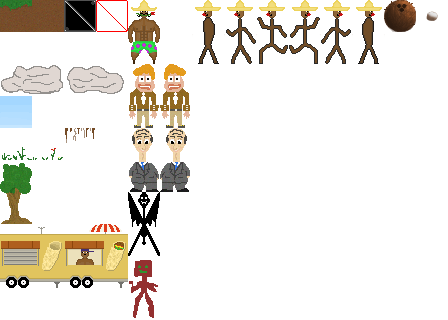
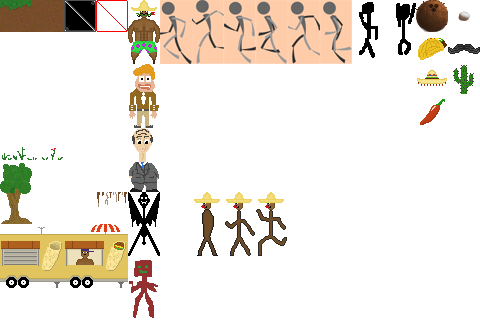
Ny animation-demo

diff --git a/Tempo/src/tempo/GameEngine.java b/Tempo/src/tempo/GameEngine.java
@@ -64,53 +64,54 @@ public class GameEngine implements Runnable {
 */
         public synchronized void tick() {
             ticks++;
-if(!gp.isPaused){         
-            if(ticks % 4 == 2){
-gp.set.get(1).rect.x += 1;            
+            if(!gp.isPaused){         
+                if(ticks % 4 == 2){
+                    gp.set.get(1).rect.x += 1;            
+                }
+                checkMovement();
+                checkCollision();
+               // checkClouds();
+                checkWeapon();
+                checkDialogue();
+                checkPlayer();
+                resetScreen();
+                gp.player.getAnimation().tick();
             }
-            checkMovement();
-            checkCollision();
-           // checkClouds();
-            checkWeapon();
-            checkDialogue();
-            checkPlayer();
-            resetScreen();
-            gp.player.getAnimation().tick();
-
-        }
-        gp.repaint();
-        if(ticks == 60){
-            ticks = 0;
+            gp.repaint();
+            if(ticks == 60){
+                ticks = 0;
             }
         }
 
         public void resetScreen(){
             if(gp.player.resetScreen){
                 gp.player.resetScreen = false;
-                            for(int l = 0;l<gp.particle.size();l++){
-                                gp.particle.get(l).rect.x += gp.player.spawnDiff;
-                            }
-                            for(int i = 0;i<gp.level.blocks.size();i++){
-                                gp.level.blocks.get(i).rect.x += gp.player.spawnDiff;
-                            }
-                            for(int i = 0;i<gp.clouds.size();i++){
-                                gp.clouds.get(i).rect.x += gp.player.spawnDiff;
-                                    gp.clouds.get(i).rect.x += gp.player.spawnDiff;
-                            }
-                            for(int i = 0;i<gp.bullets.size();i++){
-                                gp.bullets.get(i).rect.x +=gp.player.spawnDiff;
-                            }
-                            for(int i = 0; i < gp.units.size(); i++){
-                                for(int j = 0;j<gp.units.get(i).getHealth().size();j++){
-                                    gp.units.get(i).getHealth().get(j).rect.x += gp.player.spawnDiff + 8;
-                                }
-                            }
-                            for(int i = 0; i < gp.units.size(); i++){
-                                gp.units.get(i).rect.x += gp.player.spawnDiff;
-                            }
-                            for(int i = 0; i < gp.level.checkpoints.size(); i++){
-                                gp.level.checkpoints.get(i).rect.x +=gp.player.spawnDiff;
-                            }
+                
+                for(int l = 0;l<gp.particle.size();l++){
+                    gp.particle.get(l).rect.x += gp.player.spawnDiff;
+                }
+                for(int i = 0;i<gp.level.blocks.size();i++){
+                    gp.level.blocks.get(i).rect.x += gp.player.spawnDiff;
+                }
+                for(int i = 0;i<gp.clouds.size();i++){
+                    gp.clouds.get(i).rect.x += gp.player.spawnDiff;
+                        gp.clouds.get(i).rect.x += gp.player.spawnDiff;
+                }
+                for(int i = 0;i<gp.bullets.size();i++){
+                    gp.bullets.get(i).rect.x +=gp.player.spawnDiff;
+                }
+                for(int i = 0; i < gp.units.size(); i++){
+                    for(int j = 0;j<gp.units.get(i).getHealth().size();j++){
+                        gp.units.get(i).getHealth().get(j).rect.x += gp.player.spawnDiff + 8;
+                    }
+                }
+                for(int i = 0; i < gp.units.size(); i++){
+                    gp.units.get(i).rect.x += gp.player.spawnDiff;
+                }
+                for(int i = 0; i < gp.level.checkpoints.size(); i++){
+                    gp.level.checkpoints.get(i).rect.x +=gp.player.spawnDiff;
+                }
+                
                 gp.level.spawn.rect.x +=gp.player.spawnDiff;
                 gp.level.goal.rect.x  += gp.player.spawnDiff;
                 gp.player.rect.x+=gp.player.spawnDiff;
@@ -129,7 +130,7 @@ gp.set.get(1).rect.x += 1;
                         } else if(((gp.units.get(j).image != null && gp.coll.getTopCollision(gp.player.rect ,gp.units.get(j).rect)) || gp.coll.getTopCollision(gp.player.rect,gp.level.blocks.get(i).rect)) && gp.player.ySpeed < 0){
                             gp.player.gravity = 0;
                             gp.player.ySpeed = 0;
-} else { 
+                        } else { 
                             gp.player.gravity = 2f;
                         }
                     }
@@ -174,7 +175,7 @@ gp.set.get(1).rect.x += 1;
                         {
                             boolean test = gp.coll.isIntersect(gp.bullets.get(j).rect,gp.units.get(q).rect);
                             for(int l = 0;l<25;l++){
-                                gp.particle.add(new Particle(gp.bullets.get(j).rect.x, gp.bullets.get(j).rect.y, 25,25,gp.ss.getSprite(13, 0, 1, 1)));
+                                gp.particle.add(new Particle(gp.bullets.get(j).rect.x, gp.bullets.get(j).rect.y, 25,25,gp.ss.getSprite(14, 0, 1, 1)));
                             }
                             if(test && gp.units.get(q).getIsHostile()){
                                 gp.units.get(q).loseHealth(Math.round(gp.bullets.get(j).xSpeed/5));
@@ -192,12 +193,13 @@ gp.set.get(1).rect.x += 1;
                     gp.level.checkpoints.get(l).checked();
                     gp.level.checkpoints.get(l).image = gp.ss.getSprite(2, 7, 2, 2);
 
-                    while(gp.level.checkpoints.get(l).getTick() < 100){   
-                            gp.particle.add(new Particle(gp.level.checkpoints.get(l).rect.x+40, gp.level.checkpoints.get(l).rect.y+50, 75,150,gp.ss.getSprite(4, 0, 1, 2)));
-                            gp.level.checkpoints.get(l).tick();
-                        }
+                    while(gp.level.checkpoints.get(l).getTick() < 20){
+                        int i = (int)(Math.random() * 3);
+                        gp.particle.add(new Particle(gp.level.checkpoints.get(l).rect.x+40, gp.level.checkpoints.get(l).rect.y+50, 80,80,gp.ss.getSprite(13, 1+i, 1, 1)));
+                        gp.level.checkpoints.get(l).tick();
                     }
                 }
+            }
             if(gp.coll.isIntersect(gp.player.rect, gp.level.goal.rect)){
                 gp.currentLevel++;
                 gp.loadLevel();
@@ -246,39 +248,27 @@ gp.set.get(1).rect.x += 1;
             }
 
 
-            if(MouseInfo.getPointerInfo().getLocation().x  > (Tempo.width/2 + gp.player.rect.width/2)){
-            gp.player.currentHand = gp.player.rect.width - 15;
-            }
-            else{
+            if (MouseInfo.getPointerInfo().getLocation().x  > (Tempo.width/2 + gp.player.rect.width/2)) {
+                gp.player.currentHand = gp.player.rect.width - 15;
+            } else {
                 gp.player.currentHand = gp.player.rect.width - 85;
             }
-        }
-        /*
-        public void checkClouds(){
-            for(int i = 0; i < gp.clouds.size(); i++){
-                gp.clouds.get(i).rect.x += gp.clouds.get(i).SpeedX;
-                if(gp.clouds.get(i).rect.x > Tempo.width + 100){
-                    gp.clouds.remove(i);
-gp.clouds.add(new Block(-100, gp.blockSize+(int)(Math.random()*5*(gp.clouds.size()-i)*21), gp.blockSize*2, gp.blockSize, gp.ss.cloudRandomizer(), false)); 
-                    gp.clouds.get(gp.clouds.size()-1).SpeedX = 1;
-                }
-                if(gp.clouds.get(i).rect.x < -100){
-                    gp.clouds.remove(i);
-gp.clouds.add(new Block(Tempo.width +100, gp.blockSize+(int)(Math.random()*5*(gp.clouds.size()-i)*21), gp.blockSize*2, gp.blockSize, gp.ss.cloudRandomizer(), false)); 
-                    gp.clouds.get(gp.clouds.size()-1).SpeedX = 1;
-                }
+            
+            if ((!gp.movingLeft && !gp.movingRight) || (gp.movingLeft && gp.movingRight)) {
+                gp.player.animation.setCurrentAnimation(gp.ss.getSprite(4, 0, 1, 2));
             }
-        }*/
+        }
+
         public void checkMovement(){
-           // gp.player.x += gp.player.xSpeed;
-gp.player.rect.y += gp.player.ySpeed;  
+            // gp.player.x += gp.player.xSpeed;
+            gp.player.rect.y += gp.player.ySpeed;  
             for(int i = 0; i < gp.units.size(); i++){
                 gp.units.get(i).rect.x += gp.units.get(i).xSpeed;
                 if(gp.units.get(i).getIsHostile()){
-                        for(int j = 0;j<gp.units.get(i).getHealth().size();j++){
-                            gp.units.get(i).getHealth().get(j).rect.x = gp.units.get(i).rect.x;
-                        }
+                    for(int j = 0;j<gp.units.get(i).getHealth().size();j++){
+                        gp.units.get(i).getHealth().get(j).rect.x = gp.units.get(i).rect.x;
                     }
+                }
             }
             gp.player.ySpeed += gp.player.gravity;
             if(gp.movingLeft){

diff --git a/Tempo/src/tempo/GamePanel.java b/Tempo/src/tempo/GamePanel.java
@@ -18,7 +18,7 @@ import tempo.sprites.*;
 public class GamePanel extends JPanel{
     // FLYTTA TILL PLAYER?
     public boolean isPaused, movingLeft, movingRight, movingUp;
-    int currentLevel =1;
+    int currentLevel = 1;
     // Längden på sidan av ett block på kartan
     int blockSize = 75;
     Spritesheet ss = new Spritesheet();
@@ -127,10 +127,10 @@ public class GamePanel extends JPanel{
             player.health.get(i).rect.x = player.rect.x + i * 10;
         }
         for(int i = 0; i < player.nuts ; i++){
-            g.drawImage(ss.getSprite(12, 0, 1, 1), 100+38*i, 680, this);
+            g.drawImage(ss.getSprite(13, 0, 1, 1), 100+38*i, 680, this);
         }
         if(player.nuts > 0){
-            g.drawImage(ss.getSprite(12, 0, 1, 1),player.rect.x + player.currentHand,player.rect.y + player.rect.height/2,this);
+            g.drawImage(ss.getSprite(13, 0, 1, 1),player.rect.x + player.currentHand,player.rect.y + player.rect.height/2,this);
         }
     }
      public void loadLevel(){
@@ -142,7 +142,7 @@ public class GamePanel extends JPanel{
             level = new Level(ss,"level"+currentLevel);
             player = new Player(Tempo.width/2,Tempo.height/2,blockSize, blockSize*2, ss.getSprite(4, 0, 1, 2), 10, 3, true);
             player.createAnimation();
-            player.getAnimation().setCurrentAnimation(ss.getSprite(6, 0, 1, 2), ss.getSprite(7, 0, 1, 2), ss.getSprite(8, 0, 1, 2));
+            player.getAnimation().setCurrentAnimation(ss.getSprite(4, 0, 1, 2));
             player.setCheckpoint(level.spawn);
             player.resetScreen();
            

diff --git a/Tempo/src/tempo/Keyboard.java b/Tempo/src/tempo/Keyboard.java
@@ -42,12 +42,14 @@ public class Keyboard implements KeyListener {
                     break;
                 case KeyEvent.VK_A:
                     if(!gp.movingLeft)
-                        gp.player.getAnimation().setCurrentAnimation(gp.ss.getSprite(6, 0, 1, 2), gp.ss.getSprite(7, 0, 1, 2), gp.ss.getSprite(8, 0, 1, 2));
+                        gp.player.flipped = false;
+                        gp.player.getAnimation().setCurrentAnimation(gp.ss.getSprite(5, 0, 1, 2), gp.ss.getSprite(6, 0, 1, 2), gp.ss.getSprite(7, 0, 1, 2), gp.ss.getSprite(8, 0, 1, 2), gp.ss.getSprite(9, 0, 1, 2), gp.ss.getSprite(10, 0, 1, 2));
                      gp.movingLeft = true;
                     break;
                 case KeyEvent.VK_D:
                     if(!gp.movingRight)
-                        gp.player.getAnimation().setCurrentAnimation(gp.ss.getSprite(9, 0, 1, 2), gp.ss.getSprite(10, 0, 1, 2), gp.ss.getSprite(11, 0, 1, 2));
+                        gp.player.flipped = true;
+                        gp.player.getAnimation().setCurrentAnimation(gp.ss.getSprite(5, 0, 1, 2), gp.ss.getSprite(6, 0, 1, 2), gp.ss.getSprite(7, 0, 1, 2), gp.ss.getSprite(8, 0, 1, 2), gp.ss.getSprite(9, 0, 1, 2), gp.ss.getSprite(10, 0, 1, 2));
                     gp.movingRight = true;
                     
                   //  if(!movingRight)

diff --git a/Tempo/src/tempo/sprites/Player.java b/Tempo/src/tempo/sprites/Player.java
@@ -22,7 +22,7 @@ public class Player extends Sprites {
     public int jumps = 0;
     public int nuts = 5;
     public int maxNuts = 5;
-    public boolean reloading, charging, player;
+    public boolean reloading, charging, player, flipped;
     public int currentHand, reloadTick, chargeTick, chargeSpeed, lives;
     public ArrayList<Health> health = new ArrayList<Health>();
     public ArrayList<Health> reload = new ArrayList<Health>();
@@ -46,7 +46,12 @@ public class Player extends Sprites {
     @Override
     public void paint(Graphics g) {
        // g.drawRect(super.x, super.y, super.width, super.height);
-        g.drawImage(super.image, super.rect.x, super.rect.y,super.rect.width, super.rect.height, null);
+        if (flipped) {
+            g.drawImage(super.image, super.rect.width + super.rect.x, super.rect.y,-super.rect.width, super.rect.height, null);
+        } else {
+            g.drawImage(super.image, super.rect.x, super.rect.y, super.rect.width, super.rect.height, null);
+        }
+        
         g.setFont(new Font("TimesRoman", Font.PLAIN, 25));
         g.setColor(Color.BLACK);
         g.drawString("x " + Integer.toString(lives), 90, 50);

diff --git a/Tempo/src/tempo/Animation.java b/Tempo/src/tempo/Animation.java
@@ -19,23 +19,28 @@ public class Animation {
     }
     
     public void setCurrentAnimation(BufferedImage ... images) {
+        currentImage = 0;
         this.images.clear();
         for(BufferedImage image : images) {
             this.images.add(image);
         }
         sprite.setImage(this.images.get(currentImage));
-    } 
+    }
     
     public void tick() {
         ticks++;
-        if(ticks == 8)  {
-            if(currentImage == 0/*currentImage < images.size()-1*/) {
+        if(ticks == 6)  {
+            /*if(currentImage == 0) {
                 changeImage = 1;
             } else if (currentImage == images.size()-1) {
                 changeImage = -1;
+            }*/
+            if (currentImage == images.size()) {
+                currentImage = 0;
             }
             sprite.setImage(this.images.get(currentImage));
-            currentImage += changeImage;
+            //currentImage += changeImage;
+            currentImage++;
             ticks = 0;
         }
     }

diff --git a/Tempo/src/tempo/Mouse.java b/Tempo/src/tempo/Mouse.java
@@ -50,7 +50,7 @@ public class Mouse implements MouseListener {
             
                 float angle = (float) Math.toDegrees(Math.atan2(e.getY() - (gp.player.rect.y + gp.player.rect.height/2), e.getX() - (gp.player.rect.x + gp.player.currentHand)));
                 int i = (int)(Math.random() * 4 + 30);
-                gp.bullets.add(new Bullet(gp.player.rect.x + gp.player.currentHand, gp.player.rect.y + gp.player.rect.height/2, i, i, angle, gp.ss.getSprite(12, 0, 1, 1), gp, e.getX(),speed));
+                gp.bullets.add(new Bullet(gp.player.rect.x + gp.player.currentHand, gp.player.rect.y + gp.player.rect.height/2, i, i, angle, gp.ss.getSprite(13, 0, 1, 1), gp, e.getX(),speed));
                 
                 gp.player.nuts--;
                 if(gp.player.nuts == 0){

diff --git a/Tempo/src/tempo/sprites/Particle.java b/Tempo/src/tempo/sprites/Particle.java
@@ -29,10 +29,10 @@ public class Particle extends Sprites{
     public Particle(int x, int y,int width, int height, BufferedImage image){
         super(new Rectangle(x,y,width,height),image);
         velocityX = (float)((random.nextDouble()*(20)) + 1);
-        velocityY = (float)((random.nextDouble()*(20)) + 1);
+        velocityY = -(float)((random.nextDouble()*(20)) + 1);
         
         velocityX = Math.random() > 0.5 ? (velocityX * -1) : velocityX;
-        velocityY = Math.random() > 0.5 ? (velocityY * -1) : velocityY;
+        //velocityY = Math.random() > 0.5 ? (velocityY * -1) : velocityY;
         
         //gravity = (float)Math.random() + 0.5f;
     }
